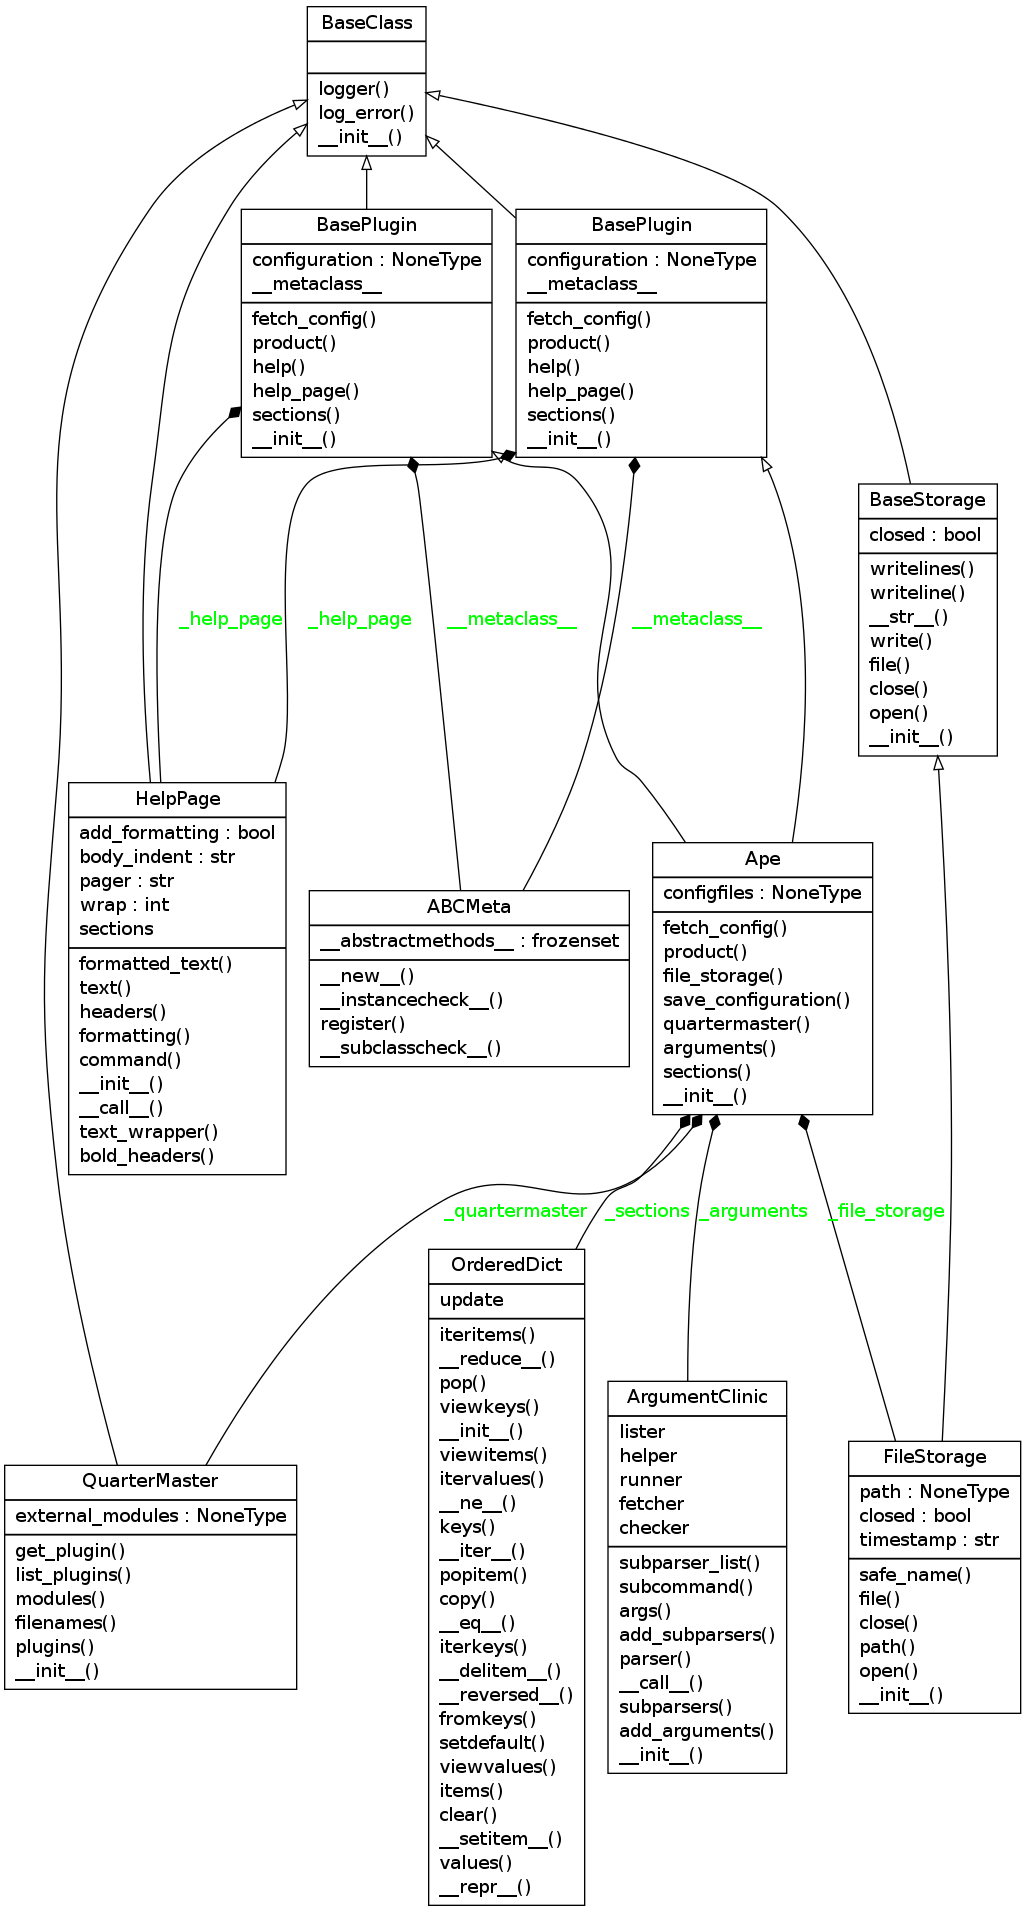
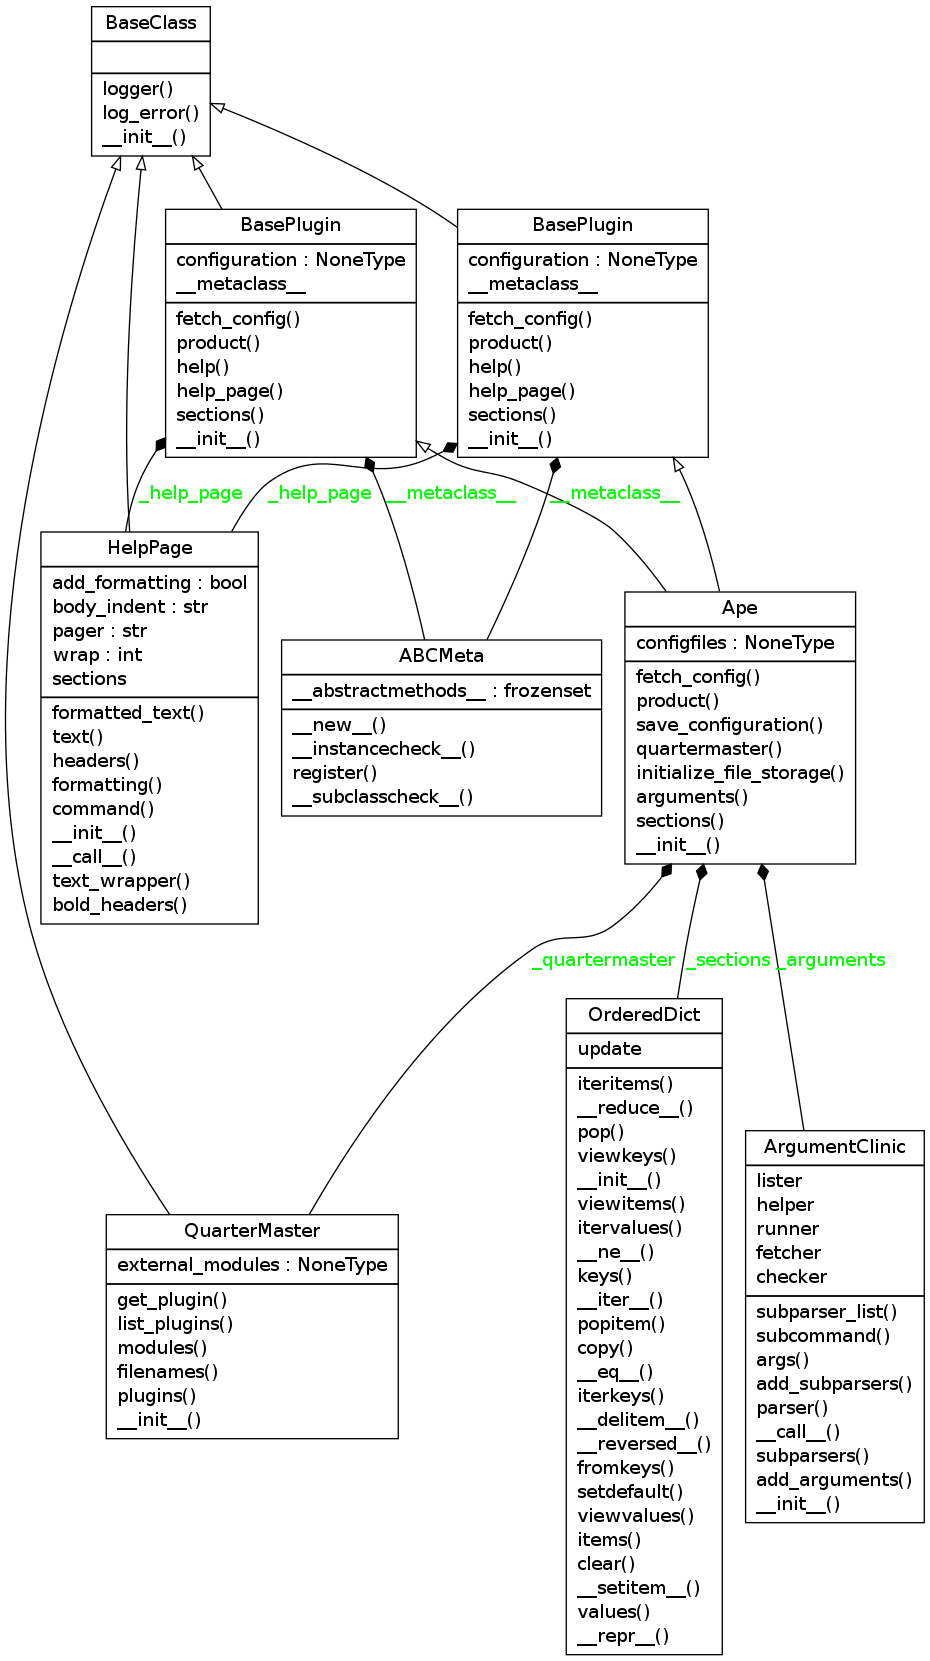
Added a singleton for the filestorage and changed the ape.product to use it

diff --git a/ape/plugins/apeplugin.py b/ape/plugins/apeplugin.py
@@ -17,6 +17,7 @@ from ape import APESECTION, MODULES_SECTION
 from quartermaster import QuarterMaster
 from ape.parts.countdown.countdown import INFO
 from ape.parts.countdown.countdown import CountdownTimer
+import ape.commoncode.singletons as singletons
 
 
 in_pweave = __name__ == '__builtin__'
@@ -25,6 +26,8 @@ in_pweave = __name__ == '__builtin__'
 DEFAULT = 'DEFAULT'
 SUBFOLDER  = 'subfolder'
 COMPILED_EXTENSION = '.compiled'
+FILE_STORAGE_NAME = 'infrastructure'
+TIMESTAMP = 'timestamp'
 
 CONFIGURATION = '''[{0}]
 # the option names are just identifiers
@@ -102,18 +105,8 @@ class Ape(BasePlugin):
         self.configfiles = configfiles
         self._arguments = None
         self._quartermaster = None
-        self._file_storage = None
         return
 
-    @property
-    def file_storage(self):
-        """
-        A FileStorage to get the path to save the configuration
-        """
-        if self._file_storage is None:
-            self._file_storage = FileStorage()
-        return self._file_storage
-            
     @property
     def quartermaster(self):
         """
@@ -191,6 +184,9 @@ class Ape(BasePlugin):
         hortator.time_remains.log_level = INFO
         # traverse the config-files to get Operators and configuration maps
         for config_file in self.configfiles:
+            # each operation gets new singletons
+            singletons.refresh()
+            
             # the QuarterMaster is being created each time because I am now allowing the addition
             # of external packages, and I don't want namespace clashes
             quartermaster = QuarterMaster()
@@ -202,6 +198,7 @@ class Ape(BasePlugin):
                                  component_category='Operation')
 
             configuration = ConfigurationMap(config_file)
+            # the file-storage is a singleton, 
             defaults = configuration.defaults
 
             # build the countdown timer
@@ -240,6 +237,10 @@ class Ape(BasePlugin):
             countdown = None
             if end_time is not None:
                 countdown = CountdownTimer(end_time=end_time)
+
+            # the next loop is going to start building plugins, so we need to set the FileStorage now
+            self.initialize_file_storage(configuration)
+            
             for operation_name in names:
                 # every option in the APE section gets an operation
                 operation = Composite(identifier='Operation',
@@ -264,8 +265,26 @@ class Ape(BasePlugin):
                 operator.add(operation)
 
             hortator.add(operator)
+            # save the configuration as a copy so there will be a record
             self.save_configuration(configuration)
         return hortator
+
+    def initialize_file_storage(self, configuration):
+        """
+        This has to be called before the plugins are built so the path will be set
+
+        :param:
+
+         - `configuration`: the Configuration (a ConfigParser like object)
+
+        :postcondition: file-storage singleton with sub-folder from default section added as path
+        """
+        file_storage = singletons.get_filestorage(name=FILE_STORAGE_NAME)
+        if SUBFOLDER in configuration.defaults:
+            file_storage.path = configuration.defaults[SUBFOLDER]
+        if TIMESTAMP in configuration.defaults:
+            file_storage.timestamp = configuration.defaults[TIMESTAMP]
+        return
 
     def save_configuration(self, configuration):
         """
@@ -275,20 +294,17 @@ class Ape(BasePlugin):
 
          - `configuration`: A ConfigurationMap to save to disk
         """
+        file_storage = singletons.get_filestorage(name=FILE_STORAGE_NAME)
         # get the sub-folder (if given) and let the FileStorage mangle the name as needed
         # to prevent clobbering files
-        path = None
-        if SUBFOLDER in configuration.defaults:
-            path = configuration.defaults[SUBFOLDER]
-        self.file_storage.path = path
 
         filename, extension = os.path.splitext(configuration.filename)
 
         # the extension is changed so if the user is using a glob
         # and didn't provide a sub-folder the compiled file won't
-        # get picked up if the code is re-run
+        # get picked up on re-running the code
         filename += COMPILED_EXTENSION
-        name = self.file_storage.safe_name(filename)
+        name = file_storage.safe_name(filename)
         configuration.write(name)
         return
         

diff --git a/ape/commoncode/singletons.py b/ape/commoncode/singletons.py
@@ -25,6 +25,8 @@
 # this package
 from ape import DontCatchError
 from ape.components.component import Composite
+from ape.parts.storage.filestorage import FileStorage
+from ape import FILE_TIMESTAMP
 
 
 # the singletons will be kept in this dictionary
@@ -37,6 +39,7 @@ class SingletonEnum(object):
     """
     __slots__ = ()
     composite = 'composite'
+    filestorage = 'filestorage'
 
 
 def get_composite(name, error=DontCatchError, error_message=None,
@@ -67,6 +70,28 @@ def get_composite(name, error=DontCatchError, error_message=None,
                                                               identifier=identifier,
                                                               component_category=component_category)
     return singletons[SingletonEnum.composite][name]
+
+
+def get_filestorage(name, path=None, component_category='infrastructure',
+                    timestamp=FILE_TIMESTAMP):
+    """
+    Gets a FileStorage Singleton
+
+    :param:
+
+     - `name`: name to register singleton (clients that want same singleton, use same name)
+
+     - `path`: path to prepend to all files (default is current directory)
+     - `timestamp`: strftime format to timestamp file-names
+
+    :return: Composite singleton
+    """
+    if SingletonEnum.filestorage not in singletons:
+        singletons[SingletonEnum.filestorage]  = {}
+    if name not in singletons[SingletonEnum.filestorage]:
+        singletons[SingletonEnum.filestorage][name] = FileStorage(path=path,
+                                                                  timestamp=timestamp)
+    return singletons[SingletonEnum.filestorage][name]
 
 
 def refresh():

diff --git a/ape/commoncode/tests/testsingletons.py b/ape/commoncode/tests/testsingletons.py
@@ -10,6 +10,7 @@ import ape.commoncode.singletons as singletons
 from ape.components.component import Composite
 from singletonimporter import test_singleton_1
 from ape import DontCatchError
+from ape.parts.storage.filestorage import FileStorage
 
 
 class TestSingletons(unittest.TestCase):
@@ -81,3 +82,21 @@ class TestSingletons(unittest.TestCase):
         # this crashes with the IndexError
         with self.assertRaises(IndexError):
             self.singleton()
+# end TestSingletons
+
+
+class TestFileSingleton(unittest.TestCase):
+    def setUp(self):
+        self.name = 'tester'
+        self.singleton = singletons.get_filestorage(self.name)
+        return
+
+    def test_file_singleton(self):
+        """
+        Does it get the same FileStorage
+        """
+        self.assertIsInstance(self.singleton, FileStorage)
+        singleton2 = singletons.get_filestorage(self.name)
+        self.assertIs(singleton2, self.singleton)
+        return
+# end TestFileSingleton

diff --git a/ape/commoncode/singletons.rst b/ape/commoncode/singletons.rst
@@ -14,7 +14,7 @@ The first thing to create is the `singletons` dictionary. I originally thought t
 .. autosummary::
    :toctree: api
 
-   SingletonEnum
+   SingletonEnum   
 
 Get Composite
 -------------
@@ -28,6 +28,19 @@ The Composite Singleton can be retrieved via the ``get_composite`` method. It ta
    :toctree: api
 
    get_composite
+   
+
+
+Get FileStorage
+---------------
+
+The ``get_filestorage`` function gets a :ref:`FileStorage <file-storage-module>` object. The intention is for each Operator Composite to set the path of the File Storage before creating its components, then each of the plugins can just open a file using the singleton. This creates a little bit of a different case from the composites in that if sub-groups are used they are going to need to copy the original file-storage and change its path (assuming the path will be different, which is the only case that I can think of where sub-groups might be useful).
+
+.. currentmodule:: ape.commoncode.singletons
+.. autosummary::
+   :toctree: api
+
+   get_filestorage
    
 
 

diff --git a/ape/commoncode/tests/testsingletons.rst b/ape/commoncode/tests/testsingletons.rst
@@ -10,4 +10,5 @@ Test The Singletons
    TestSingletons.test_composite_singleton_import
    TestSingletons.test_refresh
    TestSingletons.test_default_error
+   TestFileSingleton.test_file_singleton
 
